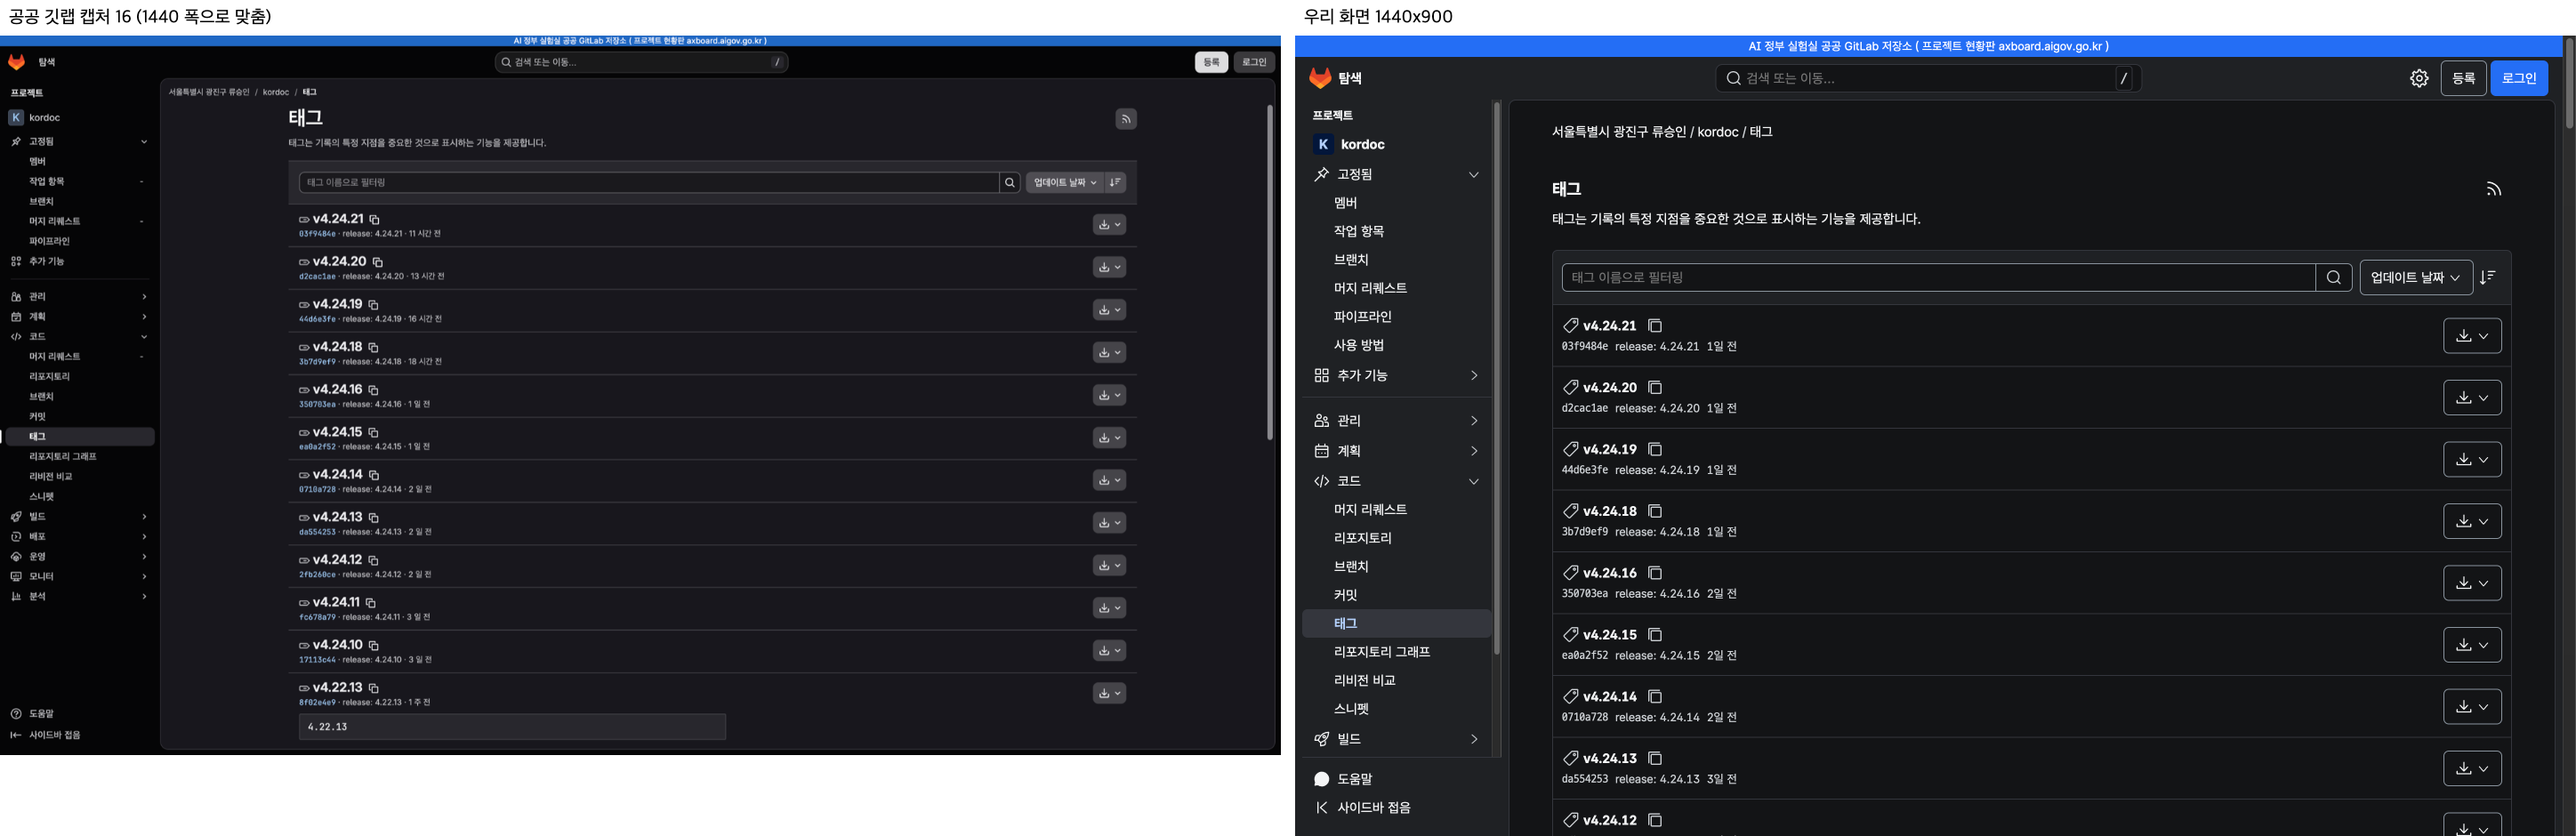
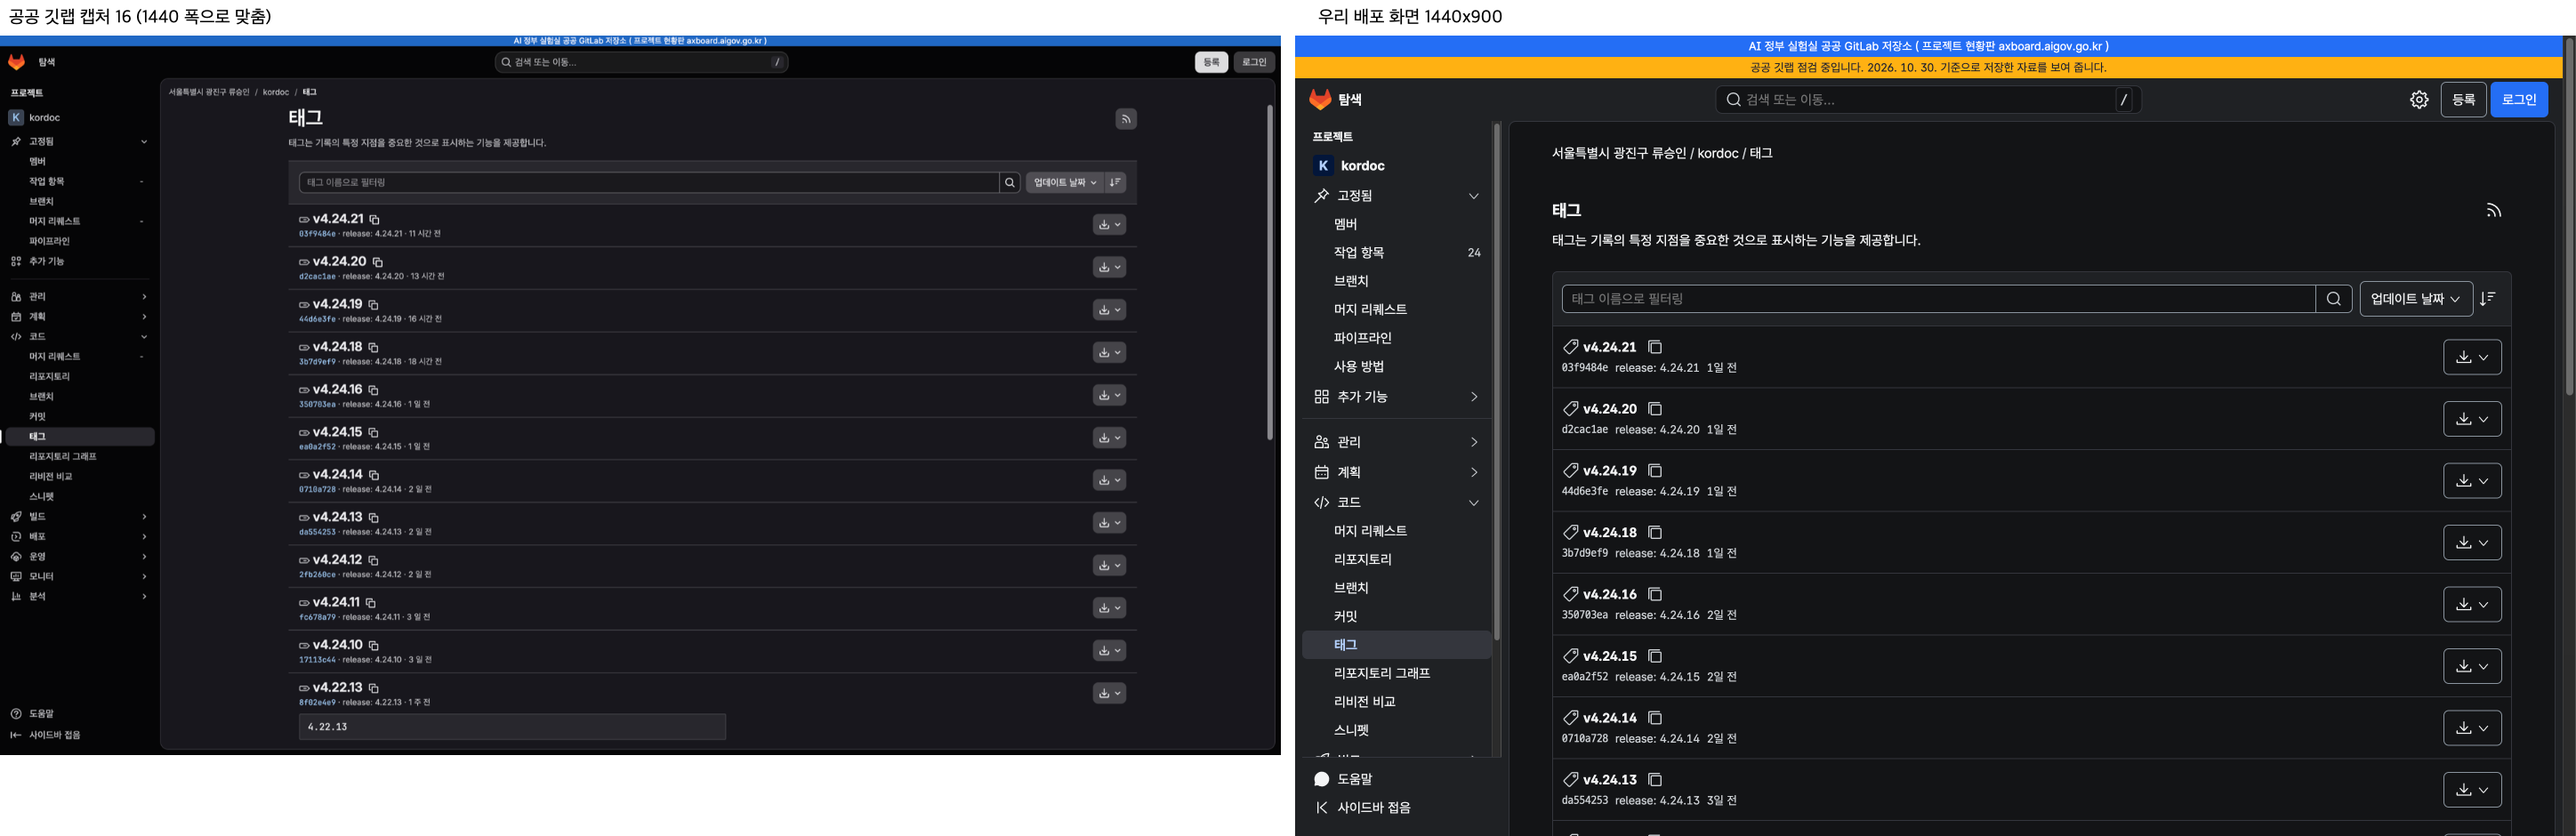
C1 대조표와 비교 이미지 최종화(배포본), 진행 기록

diff --git a/UX/13_공공깃랩_화면_대조표.md b/UX/13_공공깃랩_화면_대조표.md
@@ -80,10 +80,10 @@
 | 새 프로젝트 | (GitHub 근거) | D-21 | 덧붙임 '비슷한 프로젝트' 3개(소개 카드, 없으면 검색 색인) | | |
 | 분야(덧붙임 화면) | 없음 | D-21 | 소개 카드 분야 목록 → 탐색 목록 업무 분야 거르기 | | |
 | 모바일 | 52, 53 | D-21 | 상단 바(로고, 메뉴, 검색, 설정, 사람 아이콘), 띠 한 줄, 서랍, 프로젝트 정보가 제목 아래 | 52_모바일_프로젝트홈_360 | 53(파일 보기)은 C1 |
-| 파일 보기, 트리 | 08, 09, 07, 34 | C1 | 이식(3ad26af): 파일 이름 큰 제목, 파일 찾기, 편집(비활성), 점 세 개, 커밋 막대, 파일 상자(이름 크기, 목차, 코드/미리보기/Blame, 복사, raw, 내려받기), 줄 번호 링크, 트리 머리 '파일' + 접기 | 03_파일보기_코드_08, 03_파일보기_미리보기_09 | 빠짐: 패키지 관리자 안내 줄(08), 커밋 본문 펼침 점 세 개, 파일 트리 접힘 상태(34) 별도 모양, Blame 상세(10), 줄 범위 링크(11), 없는 파일 알림(50), 파일 작업/편집 메뉴(31, 32, 로그인 필요) |
-| 커밋 목록, 상세 | 13, 14, 14c | C1 | 상세 이식(3ad26af): 머리 줄(해시 복사, 작성됨, 작성자), 파일 찾아보기, 옵션 메뉴, 제목/본문, 부모/브랜치/태그/머지 리퀘스트 정보 상자, 변경 비교(파일 n개 +a -d, 모두 펼침/접기, 인라인/나란히, 파일 패널 목록/트리, 검색, 파일별 접기). 목록(13)은 P06이라 C1 밖 | 03_커밋상세_14 | 빠짐: 위/아래 줄 펼치기 단추, 파일별 점 세 개 메뉴 내용, 변경 비교 '파일 브라우저 숨기기' 상태 기억 |
+| 파일 보기, 트리 | 08, 09, 07, 34 | C1 | 이식 + 보강(e25d6c4): 큰 제목, 파일 찾기, 편집(비활성), 점 세 개(permalink 복사 y, 원본, 경로 복사), 커밋 막대(본문 펼침 …), 패키지 관리자 안내 줄, 파일 상자 도구, Shift+클릭 줄 범위 링크, Blame 묶음 첫 줄 커밋 제목, 없는 파일 알림(50), 트리 머리 | 03_파일보기_코드_08, 03_파일보기_미리보기_09(배포본) | 빠짐: 트리 접힘 상태 전용 모양(34, 단추로 대체), 파일 작업/편집 메뉴 내용(31, 32, 로그인 필요라 비활성) |
+| 커밋 목록, 상세 | 13, 14, 14c | C1 | 목록 이식(P06, e25d6c4): 브랜치 선택 + 프로젝트 이름, 제목, 필터 막대, 날짜 묶음, 행(아바타, 굵은 제목, 작성자와 시간, 태그 알약, 해시, 복사, 파일 찾아보기, 본문 펼침). 상세: 3ad26af + 위/아래 줄 펼치기, 파일별 점 세 개 메뉴 | 03_커밋목록_13(배포본), 03_커밋상세_14 | 빠짐: 목록 제목 줄 점 세 개(13), 필터 막대 최근 검색 메뉴 내용 |
 | 브랜치, 태그, 릴리스 | 15, 16, 17 | C1 | 이식 완료(febb3dd) | 03_브랜치_15, 03_태그_16, 03_릴리스_17 | 경로 셋째 칸 이름('브랜치/태그' → 공공 깃랩은 '브랜치', 공통 라벨이라 C1 밖), 자산 목록 아이콘 간격 |
-| 리비전 비교 | 18, 19 | C1 | 이식(3ad26af): 제목/설명 링크, 소스/대상(프로젝트 고정 + 브랜치/태그 선택 검색), 바꾸기, 변경 사항 표시 라디오 2개, 비교 단추, 소스상의 커밋 n, 변경 비교 | 03_리비전비교_선택_18, 03_리비전비교_결과_19 | 빠짐: 소스상의 커밋 접기 꺾쇠, 커밋 본문 펼침 점 세 개, 대상 선택 로딩 표시 |
+| 리비전 비교 | 18, 19 | C1 | 이식(3ad26af) + 소스상의 커밋 접기 꺾쇠, 커밋 본문 펼침, 대상 선택 로딩 표시(e25d6c4) | 03_리비전비교_선택_18, 03_리비전비교_결과_19 | 빠짐 없음(배포 스냅샷에는 비교 결과가 없어 '저장된 자료에 없습니다'가 뜸) |
 | 쓰기, 새 작업 항목 | | C1 | 공공 깃랩에 비로그인 캡처 없음(편집/새 항목은 로그인 필요, 75는 등록 화면). 정적 모드 안내 화면 유지, 이번에 바꾸지 않음 | | 대응 캡처 없음 |
 | 작업 항목 | 20, 49, 54 | C2 | 목록 이식(1db9a19), 상세와 보드 남음 | 20_작업항목_1440 | 뷰 추가, 필터 토큰(상태 다음과 같음 열기) 모양 |
 | 머지 리퀘스트 | 21, 35~39 | C2 | 목록과 상세 탭 이식(04462de, c9076ee) | 21_머지리퀘스트_1440 | 상태 배지 색(공공 깃랩은 원색 알약) |

diff --git a/PROGRESS.md b/PROGRESS.md
@@ -81,3 +81,5 @@
 - [C1] P16/P17/P25/P18/P05 이식 완료(3ad26af, 배포 version.json 3ad26af 확인). 비교 이미지 UX/gitlab_compare/03_*(8장), 대조표 3장 갱신(3e13bbe). 남은 것: P23_Write, P24_NewIssue(대응 캡처 없음, 정적 안내 유지), 대조표의 빠짐 항목(파일 8·10·11·31·32·34·50 세부, 커밋 위아래 펼치기). 배포 화면은 이 브라우저에서 공공 깃랩 접속이 막혀 내용 확인 못 함.
 - [C2] P20 비교 이미지와 4탭 확인, 아이콘 버튼 교체, 대조표 3-A/3-B 추가 push. 남음: P19 상세/보드, P21, P22, P30, P26, P15 (화면 이식 미착수)
 - 공공 깃랩 점검 대비 저장된 자료 대체: scripts/snapshot/build.mjs → app/public/data/snapshot(index 728, 상세 571, kordoc 150 전체, README 제외 8). static.js가 6초 초과·5xx·네트워크 오류면 snapshot.js로 대체(목록, 검색, 주제, 그룹, 상세, README, 트리, 커밋, 브랜치, 태그, 릴리스, 이슈, MR, 분석 원문), 머리 띠 아래 안내 한 줄(실제 응답 오면 사라짐), 없는 자료는 빈 상태 한 줄 "저장된 자료에 없습니다"
+
+- [C1] P06 커밋 목록 이식, 파일/커밋/비교 빠짐 보강 완료(e25d6c4, 배포 확인, 스냅샷 띠 확인). 남은 것: P23/P24(캡처 없음), 커밋 목록 제목 점 세 개, 파일 작업/편집 메뉴 내용. 360 폭 맨 위 띠 링크 가로 넘침은 전역 틀 소관.
